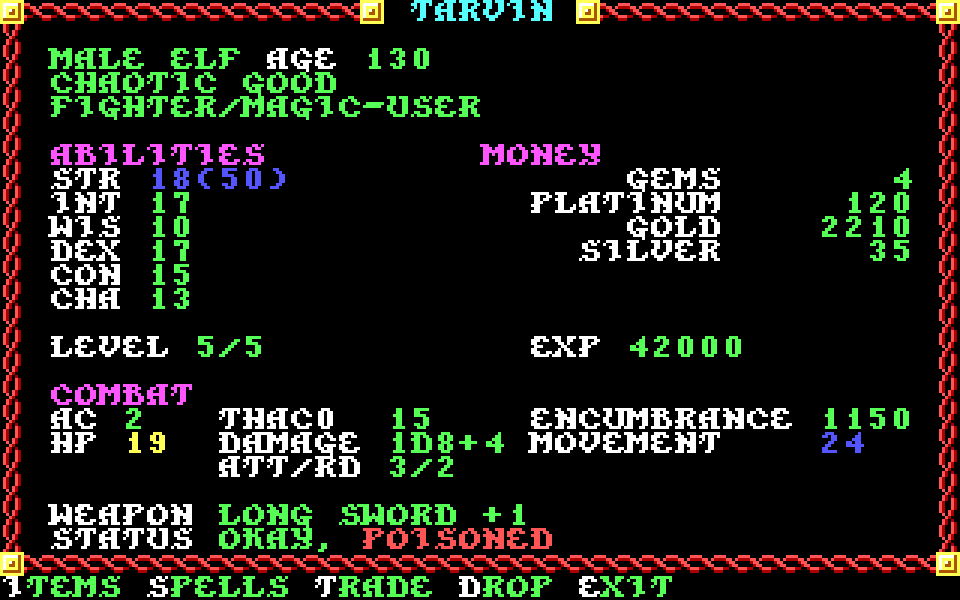
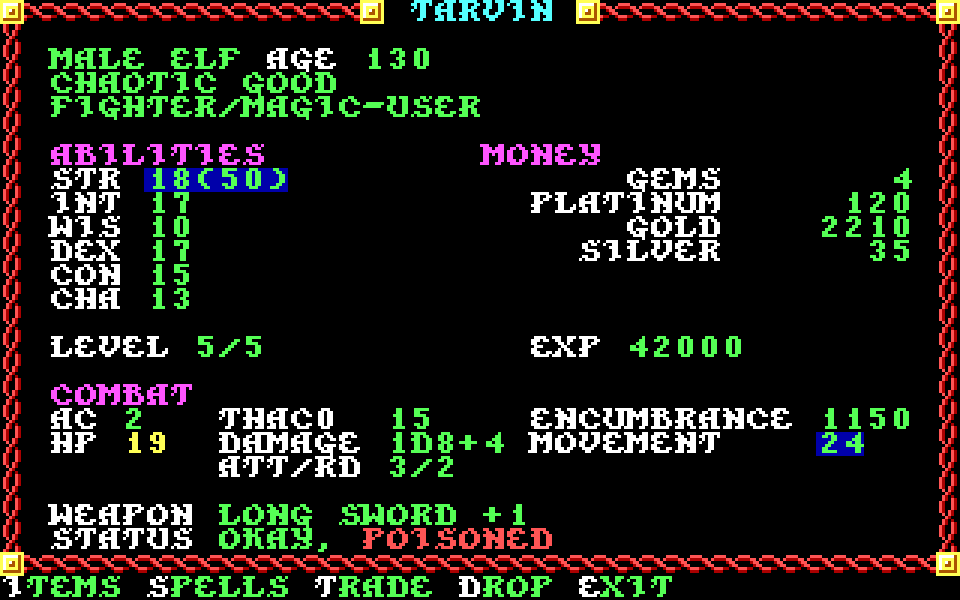
Improved values on trial as green on blue; --dim for the mock renderer
"Improved" (a spell's Strength, haste's Movement) is now on trial as the
value's own light green on a blue background: it stays a value and the
background marks it as changed. Light blue text alone looked dim beside the
bright colors. The design doc lists what was tried and set aside, and why:
black on a bright background reads as a second cursor, white on green or
cyan is loud, white on dark gray clashes with unavailable.

character.py takes --better-bg and marks improved values explicitly. Every
screen script takes --dim, drawing its text in the dim colors (0-7) with the
border unchanged, to compare against the bright ones.

Changed region(s): [[0.125, 0.27, 0.3125, 0.33], [0.8438, 0.72, 0.9062, 0.78]]

diff --git a/scripts/mock-render/character.py b/scripts/mock-render/character.py
@@ -1,8 +1,8 @@
 """View Character under docs/ui-design.md (docs/screen-mocks/view-character.txt): the name as the title in the top
 edge, keys white and values green, headers light magenta, and the status colors: improved (a spell's Strength, haste's
-Movement), not normal (injured hit points) and bad (poisoned).
+Movement, a value's color on a blue background), not normal (injured hit points) and bad (poisoned).
 
-  python3 -I character.py out.png [--better light-blue] [--name-color light-cyan]
+  python3 -I character.py out.png [--better light-green] [--better-bg blue] [--name-color light-cyan]
 """
 import os
 import sys
@@ -11,21 +11,27 @@ import mockrender as m  # noqa: E402
 
 
 def extra(p):
-    p.add_argument('--better', default='light-blue', help='the improved color to try')
+    p.add_argument('--better', default='light-green', help='the improved text color to try')
+    p.add_argument('--better-bg', default='blue', help='its background (black for none)')
     p.add_argument('--name-color', default='light-cyan', help='light-magenta: ready to train')
 
 
 a = m.main_args(__doc__, extra)
 KEY, VALUE, HEAD = m.WHITE, m.LIGHT_GREEN, m.LIGHT_MAGENTA
-BETTER, WARN, BAD = m.color(a.better), m.YELLOW, m.LIGHT_RED
-s = m.Screen(a.dax)
+BETTER, BETTER_BG, WARN, BAD = m.color(a.better), m.color(a.better_bg), m.YELLOW, m.LIGHT_RED
+s = m.screen(a)
 s.frame()
 s.title('TARVIN', m.color(a.name_color))
 
 
-def kv(col, row, key, value, color=VALUE, vcol=None):
+def kv(col, row, key, value, color=VALUE, vcol=None, better=False):
+    """key in white and its value after it (from vcol); better draws the value as improved."""
     s.text(col, row, key, KEY)
-    s.text(vcol if vcol is not None else col + len(key) + 1, row, value, color)
+    vcol = vcol if vcol is not None else col + len(key) + 1
+    if better:
+        s.text(vcol, row, value, BETTER, BETTER_BG)
+    else:
+        s.text(vcol, row, value, color)
 
 
 s.text(2, 2, 'MALE ELF', VALUE)
@@ -37,7 +43,7 @@ s.text(2, 6, 'ABILITIES', HEAD)
 s.text(20, 6, 'MONEY', HEAD)
 for i, (name, val) in enumerate([('STR', '18(50)'), ('INT', '17'), ('WIS', '10'), ('DEX', '17'), ('CON', '15'),
                                  ('CHA', '13')]):
-    kv(2, 7 + i, name, val, BETTER if name == 'STR' else VALUE, vcol=6)
+    kv(2, 7 + i, name, val, vcol=6, better=name == 'STR')
 for i, (name, val) in enumerate([('GEMS', '4'), ('PLATINUM', '120'), ('GOLD', '2210'), ('SILVER', '35')]):
     s.right(29, 7 + i, name, KEY)
     s.right(37, 7 + i, val, VALUE)
@@ -51,7 +57,7 @@ kv(9, 17, 'THAC0', '15', vcol=16)
 kv(9, 18, 'DAMAGE', '1D8+4', vcol=16)
 kv(9, 19, 'ATT/RD', '3/2', vcol=16)
 kv(22, 17, 'ENCUMBRANCE', '1150', vcol=34)
-kv(22, 18, 'MOVEMENT', '24', BETTER, vcol=34)
+kv(22, 18, 'MOVEMENT', '24', vcol=34, better=True)
 kv(2, 21, 'WEAPON', 'LONG SWORD +1', vcol=9)
 kv(2, 22, 'STATUS', 'OKAY', vcol=9)
 s.text(13, 22, ',', VALUE)

diff --git a/scripts/mock-render/mockrender.py b/scripts/mock-render/mockrender.py
@@ -85,6 +85,8 @@ class Screen:
         self.font = blocks[201]
         self.syms = blocks[202]
         self.px = [[BLACK] * 320 for _ in range(200)]
+        # text colors drawn in place of others (main_args' --dim fills it); the border and symbols are not changed
+        self.text_map = {}
 
     def symbol(self, n, remap=None):
         """Symbol n (256..286) as an 8x8 cell, its colors remapped through remap."""
@@ -105,6 +107,8 @@ class Screen:
 
     def text(self, col, row, s, fg, bg=BLACK):
         """s in the game font from (col, row), as TextRend.DisplayStringOn draws it (upper-cased, mod 64)."""
+        fg = self.text_map.get(fg, fg)
+        bg = self.text_map.get(bg, bg)
         for i, ch in enumerate(s):
             g = ord(ch.upper()) % 64
             for r in range(8):
@@ -194,6 +198,20 @@ def main_args(description, extra=None):
     p = argparse.ArgumentParser(description=description)
     p.add_argument('out', help='png to write')
     p.add_argument('--dax', default=DEFAULT_DAX, help='8X8D1.DAX (default: drive_c/POOLRAD)')
+    p.add_argument('--dim', action='store_true', help='text in the dim colors (0-7) in place of the bright')
     if extra:
         extra(p)
     return p.parse_args()
+
+
+# each bright color's dim partner: White to Light Gray, Yellow to Brown, the rest less 8
+DIM = {c: c - 8 for c in range(9, 16)}
+DIM[WHITE] = LIGHT_GRAY
+
+
+def screen(a):
+    """A Screen for main_args' arguments: its DAX, and the dim colors under --dim."""
+    s = Screen(a.dax)
+    if a.dim:
+        s.text_map = dict(DIM)
+    return s

diff --git a/scripts/mock-render/loadsave.py b/scripts/mock-render/loadsave.py
@@ -29,7 +29,7 @@ def extra(p):
 
 
 a = m.main_args(__doc__, extra)
-s = m.Screen(a.dax)
+s = m.screen(a)
 s.frame()
 s.title('LOAD/SAVE GAME', m.color(a.title_color))
 for k, (letter, desc, clock, area, date) in enumerate(SLOTS):

diff --git a/scripts/mock-render/shop.py b/scripts/mock-render/shop.py
@@ -22,7 +22,7 @@ def extra(p):
 
 
 a = m.main_args(__doc__, extra)
-s = m.Screen(a.dax)
+s = m.screen(a)
 s.frame(dividers=(2, 16))
 # tabs: the current one all white, the rest green with their command keys white
 x = 1

diff --git a/docs/ui-design.md b/docs/ui-design.md
@@ -82,7 +82,7 @@ available. Note the EGA names: **Yellow** (14) is the bright yellow; the dim one
 | Creature name, hostile | Yellow (14) | |
 | Not normal (injured hit points, a warning) | Yellow (14) | |
 | Bad, negative (a loss, a failure, a worse value) | Light Red (12) | |
-| Improved (a better value, a bonus) | **On trial**: Light Blue (9) | see below |
+| Improved (a better value, a bonus) | **On trial**: the value's Light Green on a Blue (1) background | see below |
 | Unavailable (a command or entry that cannot be taken) | Dark Gray (8) | |
 | Scroll bar | White, Light Gray, Dark Gray, Black | scrollbar.txt |
 
@@ -103,11 +103,21 @@ trying on real screens. `loadsave.py --title-color <color>` renders the choices.
 
 Status text (a condition, a spell in effect, a comparison) sits badly in green: green is every value, so a status in
 green does not stand out from them. Yellow already means "not normal" and Light Red "bad", so what is missing is a color
-for **improved** that is not green. **Light Blue** (9) is on trial: the View Character mock
-(`docs/screen-mocks/view-character.png`) shows a Strength spell's score and haste's movement in it, beside injured hit
-points in yellow and Poisoned in light red. It is darker than the other bright colors, which may suit a status, or may
-read as dim; it needs a look on the real screen. `character.py --better <color>` renders others. The shop's comparison
-(NEW AC and DMG against CURR) is the next place to try it.
+for **improved** that is not plain green.
+
+**On trial: the value's own Light Green on a Blue (1) background.** It stays a value (green) and is marked as changed
+by the background, so it keeps to the key/value rule. The View Character mock (`docs/screen-mocks/view-character.png`)
+shows a Strength spell's score and haste's movement that way, beside injured hit points in yellow and Poisoned in light
+red. White on Blue is the second choice.
+
+Tried and set aside: Light Blue (9) text alone looked dim beside the other bright colors; black on any bright background
+reads as a second cursor (the cursor is black on White, #1160), and the font's thin strokes break up in black; White on
+Green or Cyan is loud and blurs "green is a value"; White on Dark Gray clashes with unavailable.
+
+A background block is louder than a text color, and the font fills its 8x8 cell, so the block hugs the letters. That
+suits a few values on a screen; a screen full of improved values may be too busy, which the real game will show.
+`character.py --better <color> --better-bg <color>` renders other pairs. The shop's comparison (NEW AC and DMG against
+CURR) is the next place to try it.
 
 ### In code
 
@@ -263,7 +273,7 @@ frame code may need more than one cell's width to place them.
 ## Open questions
 
 1. Title color: White, Yellow, Light Cyan or another (Color).
-2. Light Blue for "improved": keep it after seeing it on the real screen? (Color)
+2. Light Green on Blue for "improved": keep it after seeing it on the real screen? (Color)
 3. Whether combat's menus can take the arrows between moves (Keys).
 4. How the focused section shows (Keys, Focus).
 

diff --git a/scripts/mock-render/README.md b/scripts/mock-render/README.md
@@ -13,8 +13,10 @@ Needs Pillow and [goldbox-re-tools](~/repos/goldbox-re-tools) (set `GOLDBOX_RE_T
 
 `loadsave.py --title-color yellow` tries a title color; `--showcase` draws each slot line in another EGA color; `--top N`
 scrolls (moves the knob). `shop.py --top N` does the same.
-`character.py --better <color>` tries a color for "improved"; `--name-color light-magenta` shows a name ready to train.
+`character.py --better <color> --better-bg <color>` tries colors for "improved"; `--name-color light-magenta` shows a name ready to train.
 
 `mockrender.py` holds the pieces: `Screen.frame` (a border with dividers and their joints), `Screen.title` (a title in
 the top edge), `Screen.scrollbar` (the edge scroll bar over one section), `Screen.menu` (the bottom line), `Screen.text`.
+Every screen script takes `--dim`: its text in the dim colors (0-7), the border unchanged.
+
 A new screen's mock is a short script on top of it.
